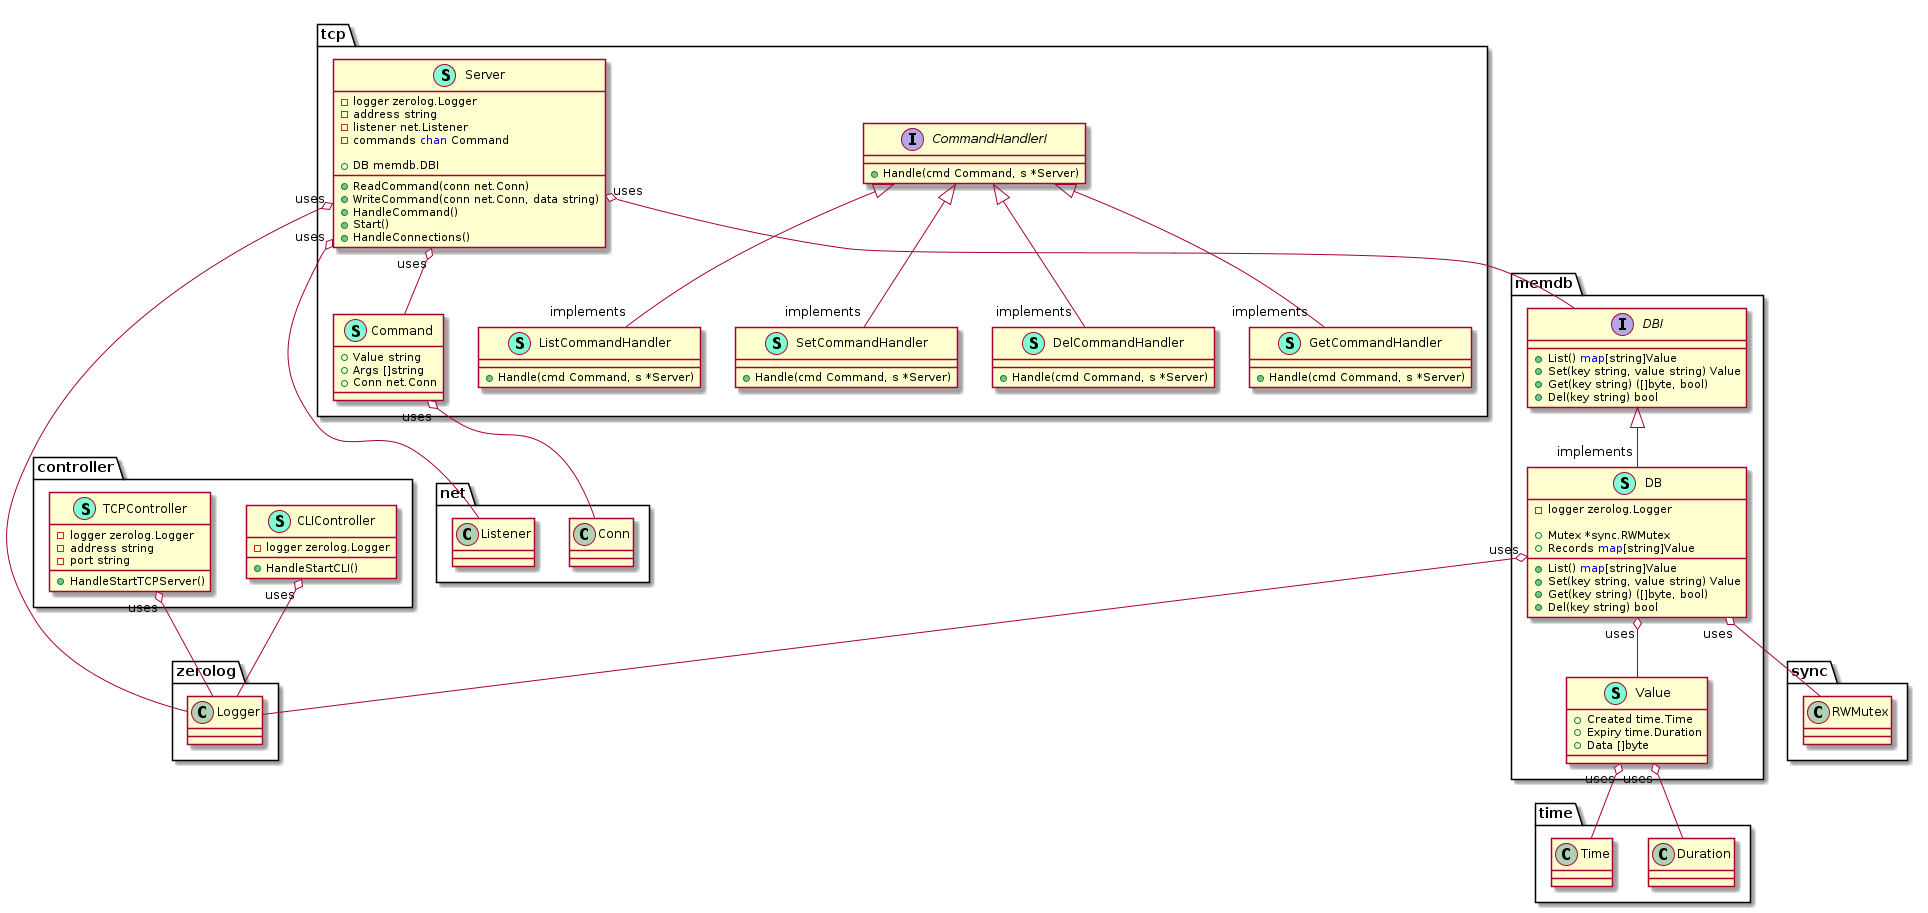
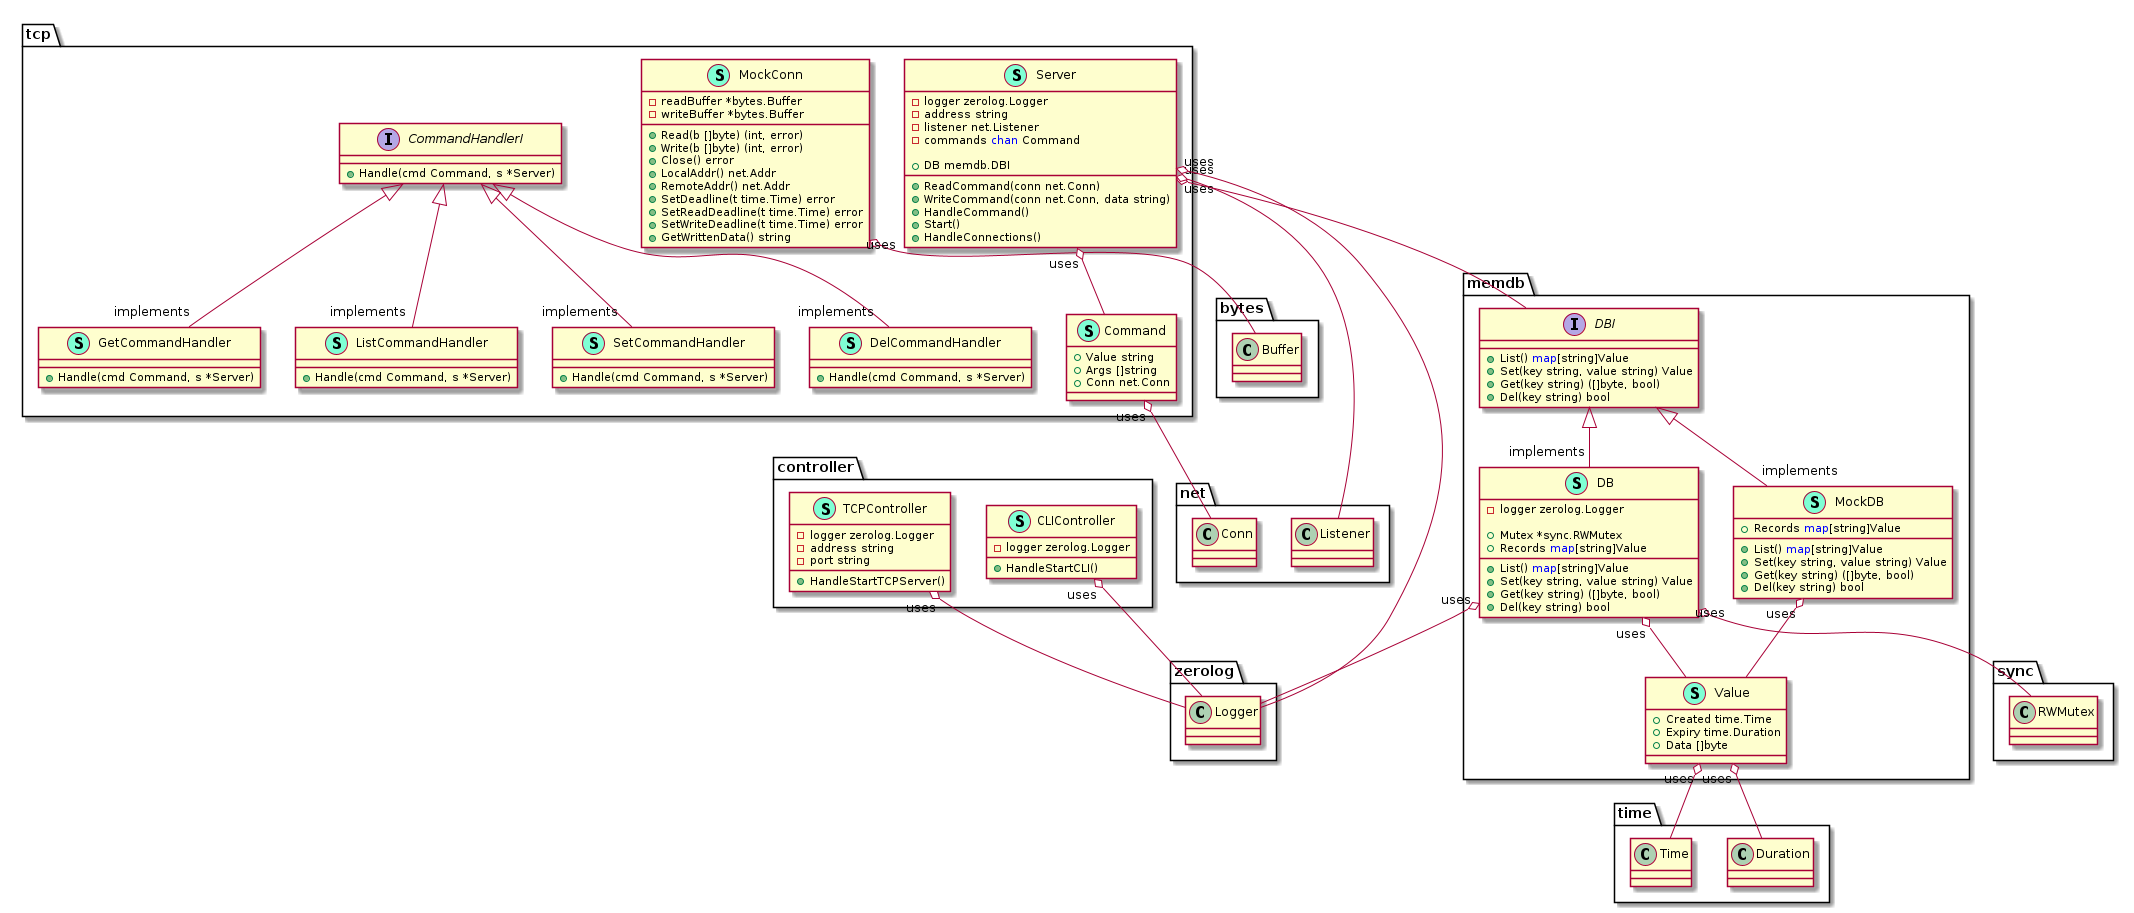
Added memdb interface and mock, created tcp mock and started testing command handlers

diff --git a/internal/tcp/command_handler_test.go b/internal/tcp/command_handler_test.go
@@ -1,23 +1,29 @@
 package tcp
 
 import (
+	"testing"
 	"time"
 
 	"github.com/gijsdb/go-mem-db/internal/memdb"
 	"github.com/rs/zerolog"
 )
 
-var test_data = map[string]memdb.Value{
-	"1": {Created: time.Now(), Expiry: time.Hour, Data: []byte("value1")},
-	"2": {Created: time.Now(), Expiry: time.Hour, Data: []byte("value2")},
-}
+func TestListCommandHandler(t *testing.T) {
+	logger := zerolog.New(nil)
+	mockDB := memdb.NewMockDB()
+	mockDB.Records["key1"] = memdb.Value{Data: []byte("value1")}
+	mockDB.Records["key2"] = memdb.Value{Data: []byte("value2")}
 
-func SetUp() *Server {
-	logger := zerolog.Logger{}
-	db := memdb.NewDB(zerolog.Logger{})
-	db.Records = test_data
+	server := NewServer("127.0.0.1:4242", mockDB, logger)
+	go server.HandleCommand()
 
-	s := NewServer("localhost:1111", db, logger)
+	mockConn := NewMockConn("LIST\n")
+	go server.ReadCommand(mockConn)
 
-	return &s
+	time.Sleep(100 * time.Millisecond)
+
+	expectedOutput := "Key: key1, Value: value1\nKey: key2, Value: value2\n\n"
+	if output := mockConn.GetWrittenData(); output != expectedOutput {
+		t.Errorf("Expected output %q, got %q", expectedOutput, output)
+	}
 }

diff --git a/internal/tcp/tcp_mock.go b/internal/tcp/tcp_mock.go
@@ -1,0 +1,56 @@
+package tcp
+
+import (
+	"bytes"
+	"net"
+	"time"
+)
+
+// MockConn is a mock implementation of net.Conn for testing purposes
+type MockConn struct {
+	readBuffer  *bytes.Buffer
+	writeBuffer *bytes.Buffer
+}
+
+func NewMockConn(input string) *MockConn {
+	return &MockConn{
+		readBuffer:  bytes.NewBufferString(input),
+		writeBuffer: new(bytes.Buffer),
+	}
+}
+
+func (m *MockConn) Read(b []byte) (n int, err error) {
+	return m.readBuffer.Read(b)
+}
+
+func (m *MockConn) Write(b []byte) (n int, err error) {
+	return m.writeBuffer.Write(b)
+}
+
+func (m *MockConn) Close() error {
+	return nil
+}
+
+func (m *MockConn) LocalAddr() net.Addr {
+	return nil
+}
+
+func (m *MockConn) RemoteAddr() net.Addr {
+	return nil
+}
+
+func (m *MockConn) SetDeadline(t time.Time) error {
+	return nil
+}
+
+func (m *MockConn) SetReadDeadline(t time.Time) error {
+	return nil
+}
+
+func (m *MockConn) SetWriteDeadline(t time.Time) error {
+	return nil
+}
+
+func (m *MockConn) GetWrittenData() string {
+	return m.writeBuffer.String()
+}

diff --git a/internal/memdb/memdb_mock.go b/internal/memdb/memdb_mock.go
@@ -1,0 +1,54 @@
+package memdb
+
+import "time"
+
+type MockDB struct {
+	Records map[string]Value
+}
+
+func NewMockDB() *MockDB {
+	return &MockDB{Records: make(map[string]Value)}
+}
+
+func (db *MockDB) List() map[string]Value {
+	data := make(map[string]Value)
+	for key, val := range db.Records {
+		data[key] = val
+	}
+	return data
+}
+
+func (db *MockDB) Set(key string, value string) Value {
+	val := Value{
+		Created: time.Now(),
+		Expiry:  time.Hour * 1,
+		Data:    []byte(value),
+	}
+	db.Records[key] = val
+	return val
+}
+
+func (db *MockDB) Get(key string) ([]byte, bool) {
+	val, exists := db.Records[key]
+	if !exists {
+		return nil, false
+	}
+	return val.Data, true
+}
+
+func (db *MockDB) Del(key string) bool {
+	_, exists := db.Records[key]
+	if exists {
+		delete(db.Records, key)
+	}
+	return exists
+}
+
+// func (db *MockDB) Expire(key string, duration time.Duration) bool {
+// 	val, exists := db.Records[key]
+// 	if exists {
+// 		val.Expiry = duration
+// 		db.Records[key] = val
+// 	}
+// 	return exists
+// }

diff --git a/internal/tcp/server.go b/internal/tcp/server.go
@@ -16,7 +16,7 @@ type Server struct {
 	commands chan Command
 }
 
-func NewServer(address string, db *memdb.DB, logger zerolog.Logger) Server {
+func NewServer(address string, db memdb.DBI, logger zerolog.Logger) Server {
 	return Server{
 		logger:   logger,
 		address:  address,
